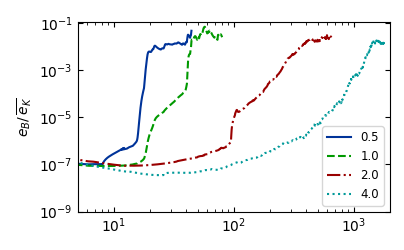
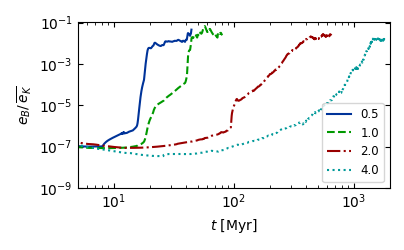
Added section 4 and Myr to Fig 2

diff --git a/ssdyn_letter.tex b/ssdyn_letter.tex
@@ -73,12 +73,16 @@
 \newcommand\latex{La\TeX}
 \newcommand\Rm{{\rm Rm} }
 \newcommand\kf{k_{\rm f} }
-\newcommand\SNr{\dot\sigma_{\rm SN}}
+\newcommand\SNr{\dot\sigma_{\rm sn}}
 \newcommand\ESK{E_{\rm kin}}
 \newcommand\EST{E_{\rm th}}
-\newcommand\ESN{E_{\rm SN}}
+\newcommand\ESN{E_{\sigma}}
 \newcommand{\vect}[1]{{{\mbox{\boldmath $#1$}}}}%also makes bold Greek letters
 \newcommand{\mathbfss}[1]{\textbf{\textsf{#1}}}
+\newcommand\kpc{~ {\rm kpc}}
+\newcommand\Myr{~ {\rm Myr}}
+\newcommand\erg{~ {\rm erg}}
+\newcommand\kms{~ {\rm km~ s}^{-1}}
 
 \definecolor{midblue}{rgb}{0.0,0.4,0.7}
 \definecolor{midgreen}{rgb}{0.0,0.8,0.3}
@@ -306,9 +310,9 @@ They refute the earlier dynamo solutions of \citet{BKMM04}
 %the time-averaged equipartion field. 
 %% mm and $\overline{u_{\rm rms}}$ is the  time-averaged $u_{\rm rms}$ during the kinematic phase.
 Simulation results for non-helical random forcing. 
-The simulation with $R_{\rm m}=148$ and $P_{\rm m}=50.0$ supports dynamo 
+The simulation with $R_{\rm m}=148.0$ and $P_{\rm m}=50.0$ supports dynamo 
 amplification of magnetic field
-With $R_{\rm m}=7.4$ and $P_{\rm m}=2.50$ dynamo is suppressed and 
+With $R_{\rm m}=7.4$ and $P_{\rm m}=2.5$ dynamo is suppressed and 
 amplification is limited to tangling of the magnetic field.
 Panel (a) displays mean magnetic energy density, $e_B$, evolving as a
 proportion of time-averaged kinetic energy density, $\overline{e_K}$.
@@ -440,31 +444,37 @@ induction Eq.\,\eqref{eq:ind}:
 %----------------------------------------------------------------------------
   \begin{eqnarray}
   \label{eq:mass}
-  \frac{D\rho}{Dt} &=& - \vect\nabla \cdot (\rho \vect{u}) + \vect\nabla \cdot\zeta_D\vect\nabla\rho,\\
+    \frac{D\rho}{Dt} &=& 
+    -\vect\nabla \cdot (\rho \vect{u})
+    +\vect\nabla \cdot\zeta_D\vect\nabla\rho,\\
 %----------------------------------------------------------------------------
   \label{eq:mom}
-  \rho\frac{D\vect{u}}{Dt} &=& \vect\nabla{\ESK\sigma}
+    \rho\frac{D\vect{u}}{Dt} &=& 
+    \vect\nabla{\ESK\sigma}
     -\rho c_{\rm s}^2\vect\nabla\left({s}/{c_{\rm p}}+\ln\rho\right)
-    +\vect{j}\times\vect{B}\nonumber\\
-    &+&\vect\nabla\cdot \left(2\rho\nu{\mathbfss W}\right)+
-       \rho\,\zeta_{\nu}\left(\vect\nabla\vect\nabla \cdot \vect{u} \right)\nonumber\\
-    & 
-     +&
-       \vect\nabla\cdot \left(2\rho\nu_3{\mathbfss W}^{(3)}\right),\\
+    +\vect{j}\times\vect{B}
+    \nonumber\\
+    &+&\vect\nabla\cdot \left(2\rho\nu{\mathbfss W}\right)
+    +\rho\,\vect\nabla\left(\zeta_{\nu}\vect\nabla \cdot \vect{u} \right)
+    \nonumber\\
+    &+&\vect\nabla\cdot \left(2\rho\nu_3{\mathbfss W}^{(3)}\right),\\
 %----------------------------------------------------------------------------
   \label{eq:ent}
-  \rho T\frac{D s}{Dt} &=& \EST\dot\sigma +\rho\Gamma -\rho^2\Lambda +\eta\mu_0\vect{j}^2 
-     +2 \rho \nu\left|{\mathbfss W}\right|^{2}
-   \nonumber\\
-  &+&\vect\nabla\cdot\left(\zeta_\chi\rho T\vect\nabla s\right)
-  + 
-  \rho T\chi_3\vect\nabla^6 s,\\
+    \rho T\frac{D s}{Dt} &=&
+     \EST\dot\sigma +\rho\Gamma
+    -\rho^2\Lambda +\eta\mu_0\vect{j}^2 
+    \nonumber\\
+    &+&2 \rho \nu\left|{\mathbfss W}\right|^{2}
+    +\rho\,\zeta_{\nu}\left(\vect\nabla \cdot \vect{u} \right)^2
+    \nonumber\\
+    &+&\vect\nabla\cdot\left(\zeta_\chi\rho T\vect\nabla s\right)
+    +\rho T\chi_3\vect\nabla^6 s,\\
 %----------------------------------------------------------------------------
   \label{eq:ind}
     \frac{\partial \vect{A}}{\partial t} &=&
-        \vect{u}\times\vect{B}
-      + \eta\vect\nabla^2\vect{A}
-       +\eta_3\vect\nabla^6\vect{A},
+    \vect{u}\times\vect{B}
+    +\eta\vect\nabla^2\vect{A}
+    +\eta_3\vect\nabla^6\vect{A},
   \end{eqnarray}
 completing the system with the equation of state for an ideal gas.
 Many symbols have their usual meaning, and a table is included in the appendix
@@ -482,10 +492,24 @@ $\nu_3,\,\chi_3$ and $\eta_3$ apply sixth-order hyperdiffusion applying primaril
 at the grid scale to resolve small-scale instabilities.
 \fag{add reference re hyper3}
 
+\begin{figure*}[ht!]
+\gridline{\fig{figs/eB-res-4eta.png}{0.5\textwidth}{(a)}
+          \fig{figs/eB-res-3eta.png}{0.5\textwidth}{(b)}
+          }
+\caption{
+The volume averaged magnetic energy density for models with resolution
+between 0.5\,pc and 4\,pc are plotted over time.
+These are scaled by reference to their
+ time-averaged statistical-steady kinetic energy density.
+Resistivity, $\eta=10^{-4}\kpc\kms$ in panel {\rm(a)} and $10^{-3}$
+{\rm(b)}, is applied.
+\label{fig:eb-res}}
+\end{figure*}
+
 The supernovae are injected randomly uniform in 3D space and as a
 Poisson process proportional to the solar neigbourhood rate in the Milky Way,
- $\SNr\simeq 50$\,kpc$^{-3}$\,Myr$^{-1}$. 
-Each explosion injects energy $\ESN=10^{51}$\,erg as thermal energy, $\EST$, but in 
+ $\SNr\simeq 50\kpc^{-3}\Myr^{-1}$. 
+Each explosion injects $10^{51}\erg$ as thermal energy, $\EST$, but in 
 dense media a small proportion may be in kinetic energy, $\ESK$.
 This is described in detail by \citet{GMKSH20}.
 Non-adiabatic heating, $\Gamma$, and cooling, $\Lambda$, processes are included
@@ -506,21 +530,6 @@ the artificial diffusivities are adequate to ensure numerical stability and
 the physical effects of thermal conductivity can be expected to be relevant only
 at time and spatial scales much shorter than considered here.
 \fag{Mordecai, could you suggest some appropriate reference?}
-
-\begin{figure*}[ht!]
-\gridline{\fig{figs/eB-res-4eta.png}{0.5\textwidth}{(a)}
-          \fig{figs/eB-res-3eta.png}{0.5\textwidth}{(b)}
-          }
-\caption{
-The volume averaged magnetic energy density for models with resolution
-between 0.5\,pc and 4\,pc are plotted over time.
-These are scaled by reference to their
- time-averaged statistical-steady kinetic energy density.
-Resistivity, $\eta=10^{-4}$\,kpc\,km\,s$^{-1}$ in panel {\rm(a)} and $10^{-3}$
-{\rm(b)}, is applied.
-\label{fig:eb-res}}
-\end{figure*}
-
 
 \begin{figure*}
 \gridline{\fig{figs/0_5pc-eB-nu4.png}{0.5\textwidth}{(a)}
@@ -543,14 +552,40 @@ Resistivity, $\eta=10^{-4}$\,kpc\,km\,s$^{-1}$ in panel {\rm(a)} and $10^{-3}$
   \end{picture}
 \caption{
 The effect of resistivity $\eta$ is compared at each resolution, {\rm(a)} --
- {\rm(d)} for supernova rate $\sigma=0.2\sigma_{\rm SN}$ and {\rm(e)} -- {\rm(f)} for $\sigma=\sigma_{\rm SN}$ at lower resolution, 
-where $\sigma_{\rm SN}\simeq 50$\,kpc$^{-3}$\,Myr$^{-1}$ is the solar neighbourhood equivalent random SN frequency.
+ {\rm(d)} for supernova rate $\dot\sigma=0.2\SNr$ and {\rm(e)} -- {\rm(f)} for
+$\dot\sigma=\SNr$ at lower resolution, 
+where $\SNr\simeq 50$\,kpc$^{-3}$\,Myr$^{-1}$ is the solar neighbourhood equivalent random SN frequency.
 The time axes vary between plots sufficient to reach saturation of the dynamo.
 At 4\,pc resolution the models with $\eta=10^{-4}$\,kpc\,km\,s$^{-1}$ are 
 continued until the dynamo has saturated, for comparison with the higher 
 resolution saturation levels.
 \label{fig:eb-nu}}
 \end{figure*}
+
+
+\section{Dynamo dependence on resolution and resistivity} \label{sec:results}
+
+In Figure\,\ref{fig:eb-res} the response of the magnetic energy density 
+$e_B/\overline{e_K}$ to resolution is shown
+for resistivity $\eta=10^{-4}\kpc\kms$, panel\,(a) and
+$\eta=10^{-3}$, panel\,(b).
+The time in Myr is plotted on a log scale to better present the differences in 
+the higher resolution runs, which saturate much faster then the 4 pc resolution 
+run.
+Whilst for $\eta=10^{-4}$ the dynamo growth rates are very slow at 4\,pc
+resolution, the growth rate shows some convergence near 0.5\,pc resolution and 
+the saturation level of above 5\% of $\overline{e_K}$ is independent of
+resolution. 
+At $\eta=10^{-3}$, there is a \emph{false convergence} \fag{reference tba}
+between 2 and 4\,pc resolution,
+with the magnetic energy decaying at similar rates, howver at higher resolution
+we see that the results converge around an alternative solution, with a dynamo
+amplification of the field occurring between 400 and 600\,Myr.
+
+In Figure\,\ref{fig:eb-nu} we show how at each resolution $e_B/\overline{e_K}$
+evolves for various values of $\eta$.
+
+
 
 \begin{figure*}
 \gridline{\fig{figs/0_5pcPm0e-4_0Bpower.png}{0.5\textwidth}{(a)}
@@ -560,7 +595,7 @@ resolution saturation levels.
           \fig{figs/0_5pcPm0e-3_0kpower.png}{0.5\textwidth}{(d)}
           }
 \caption{
-Compensated energy spectra at times in Myr given in the captions for 
+Compensated energy spectra at times in Myr given in the legends for 
 0.5\,pc resolution.
 Rm is super critical for dynamo applying $\eta=10^{-4}$ in
 panels (a) and (b) and sub critical or marginal for dynamo applying
@@ -588,9 +623,9 @@ Resistivity $\eta=0,\,10^{-4}$ and $10^{-3}$ in panel pairs (a,b), (c,d) and
 Energy spectra are compensated against theoretical profiles of Kazentsev
 $k^{3/2}$, left panels, and Kolmogorov $k^{-5/3}$, right, 
 each represented by the horizontal black dashed lines.
-In panels (g,h) for 2\,pc resolution at 200\,Myr effect of supernova rate
-$\sigma=0.2\sigma_{\rm SN}$ or $\sigma_{\rm SN}$ with
-$\eta=10^{-4}$ or $10^{-3}$ as listed in the captions are displayed.
+Panels (g,h) for 2\,pc resolution at 200\,Myr show the effect of supernova rate
+$\dot\sigma=0.2\SNr$ or $\SNr$ for
+$\eta=10^{-4}$ or $10^{-3}$ as listed in the legends.
 \label{fig:3power}}
 \end{figure*}
 
@@ -606,12 +641,11 @@ $\eta=10^{-4}$ or $10^{-3}$ as listed in the captions are displayed.
 \tablecaption{Symbol Notation\label{tab:notation}}
 \tablewidth{0pt}
 \tablehead{
-\colhead{Messier} & \colhead{NGC/IC} & \nocolhead{Common} 
+\colhead{Notation} & \colhead{Meaning} & \colhead{Units/Definition} 
 \\
-\colhead{Number} & \colhead{Number} & \nocolhead{Name} 
 }
-\decimalcolnumbers
-\startdata
+%\decimalcolnumbers
+\startdata\\
 $\dfrac{D}{Dt}$ & material derivative & $\dfrac{\partial }{\partial t}+\vect{u}\cdot \vect\nabla$ \\
 $\vect\nabla$ & gradient vector & e.g.,$\dfrac{\partial }{\partial x},\dfrac{\partial }{\partial y},\dfrac{\partial }{\partial z}$ \\
 $\rho$ & gas density & [g cm$^{-3}$]  \\
@@ -626,11 +660,13 @@ $\mathbfss W$ & traceless rate of strain tensor &
   ${\mathsf W}_{ij} = \dfrac{1}{2}\left(\dfrac{\partial u_i}{\partial x_j}
                  + \dfrac{\partial u_j}{\partial x_i}
                  -\dfrac{2}{3} \delta_{ij}\vect\nabla\cdot \vect u\right)$ \\
+$|\mathbfss W|^2$ & contracted rate of strain tensor &
+  $|\mathbfss W|^2={\mathsf W}_{ij}{\mathsf W}_{ij}$\\
 $\mathbfss W^{(3)}$ & 6th order rate of strain tensor &
   ${\mathsf W}_{ij}^{(3)} = \dfrac{1}{2}\left(\dfrac{\partial^5 u_j}{\partial x_i^5}
                  + \dfrac{\partial^4}{\partial x_i^4}\left(\dfrac{\partial u_i}{\partial x_j}\right)
                  -\dfrac{1}{3}\dfrac{\partial^4}{\partial x_i^4}\left(\vect\nabla\cdot \vect u\right)\right)$ \\
-$\zeta_{D},\zeta_{\nu},\zeta_{\chi}$ & shock diffusion coefficient& $\propto \left|\vect\nabla\cdot\vect u\right|_{<0}$\\
+$\zeta_{D},\zeta_{\nu},\zeta_{\chi}$ & shock diffusion coefficient& $\propto \left(-\vect\nabla\cdot\vect u\right)_+$\\
 $\nu,\eta$ & viscosity, resistivity coefficient& [kpc km s$^{-1}$]\\
 $\nu_3,\chi_3,\eta_3$ & hyperdiffusion coefficient& [kpc$^{5}$ km s$^{-1}$]\\
 $\Gamma$ & UV-heating& [erg g$^{-1}$ s$^{-1}$]\\
@@ -639,13 +675,16 @@ $\ESK+\EST$ & SN explosion energy& [10$^{51}$erg]\\
 $\dot\sigma$ & SN explosion rate & [kpc Myr$^{-1}$]\\
 $c_{\rm s}$ & sound speed & [km s$^{-1}$]\\
 $c_{\rm p}$ & specific heat at constant pressure & [erg g$^{-1}$ K$^{-1}$]\\
+$e_B$ & magnetic energy density & [erg cm$^{-3}$]\\
+$\overline{e_K}$ & time-averaged kinetic energy density & [erg cm$^{-3}$]\\
+\\
 \enddata
-\tablecomments{\fag{to be continued \ldots}
-This table ``hides'' the third column in the \latex\ when compiled.
-The Distance is also centered on the decimals.  Note that when using decimal
-alignment you need to include the {\tt\string\decimals} command before
-{\tt\string\startdata} and all of the values in that column have to have a
-space before the next ampersand.}
+%\tablecomments{\fag{to be continued \ldots}
+%This table ``hides'' the third column in the \latex\ when compiled.
+%The Distance is also centered on the decimals.  Note that when using decimal
+%alignment you need to include the {\tt\string\decimals} command before
+%{\tt\string\startdata} and all of the values in that column have to have a
+%space before the next ampersand.}
 \end{deluxetable*}
 %\begin{deluxetable*}{cchlDlc}
 %\tablenum{1}
